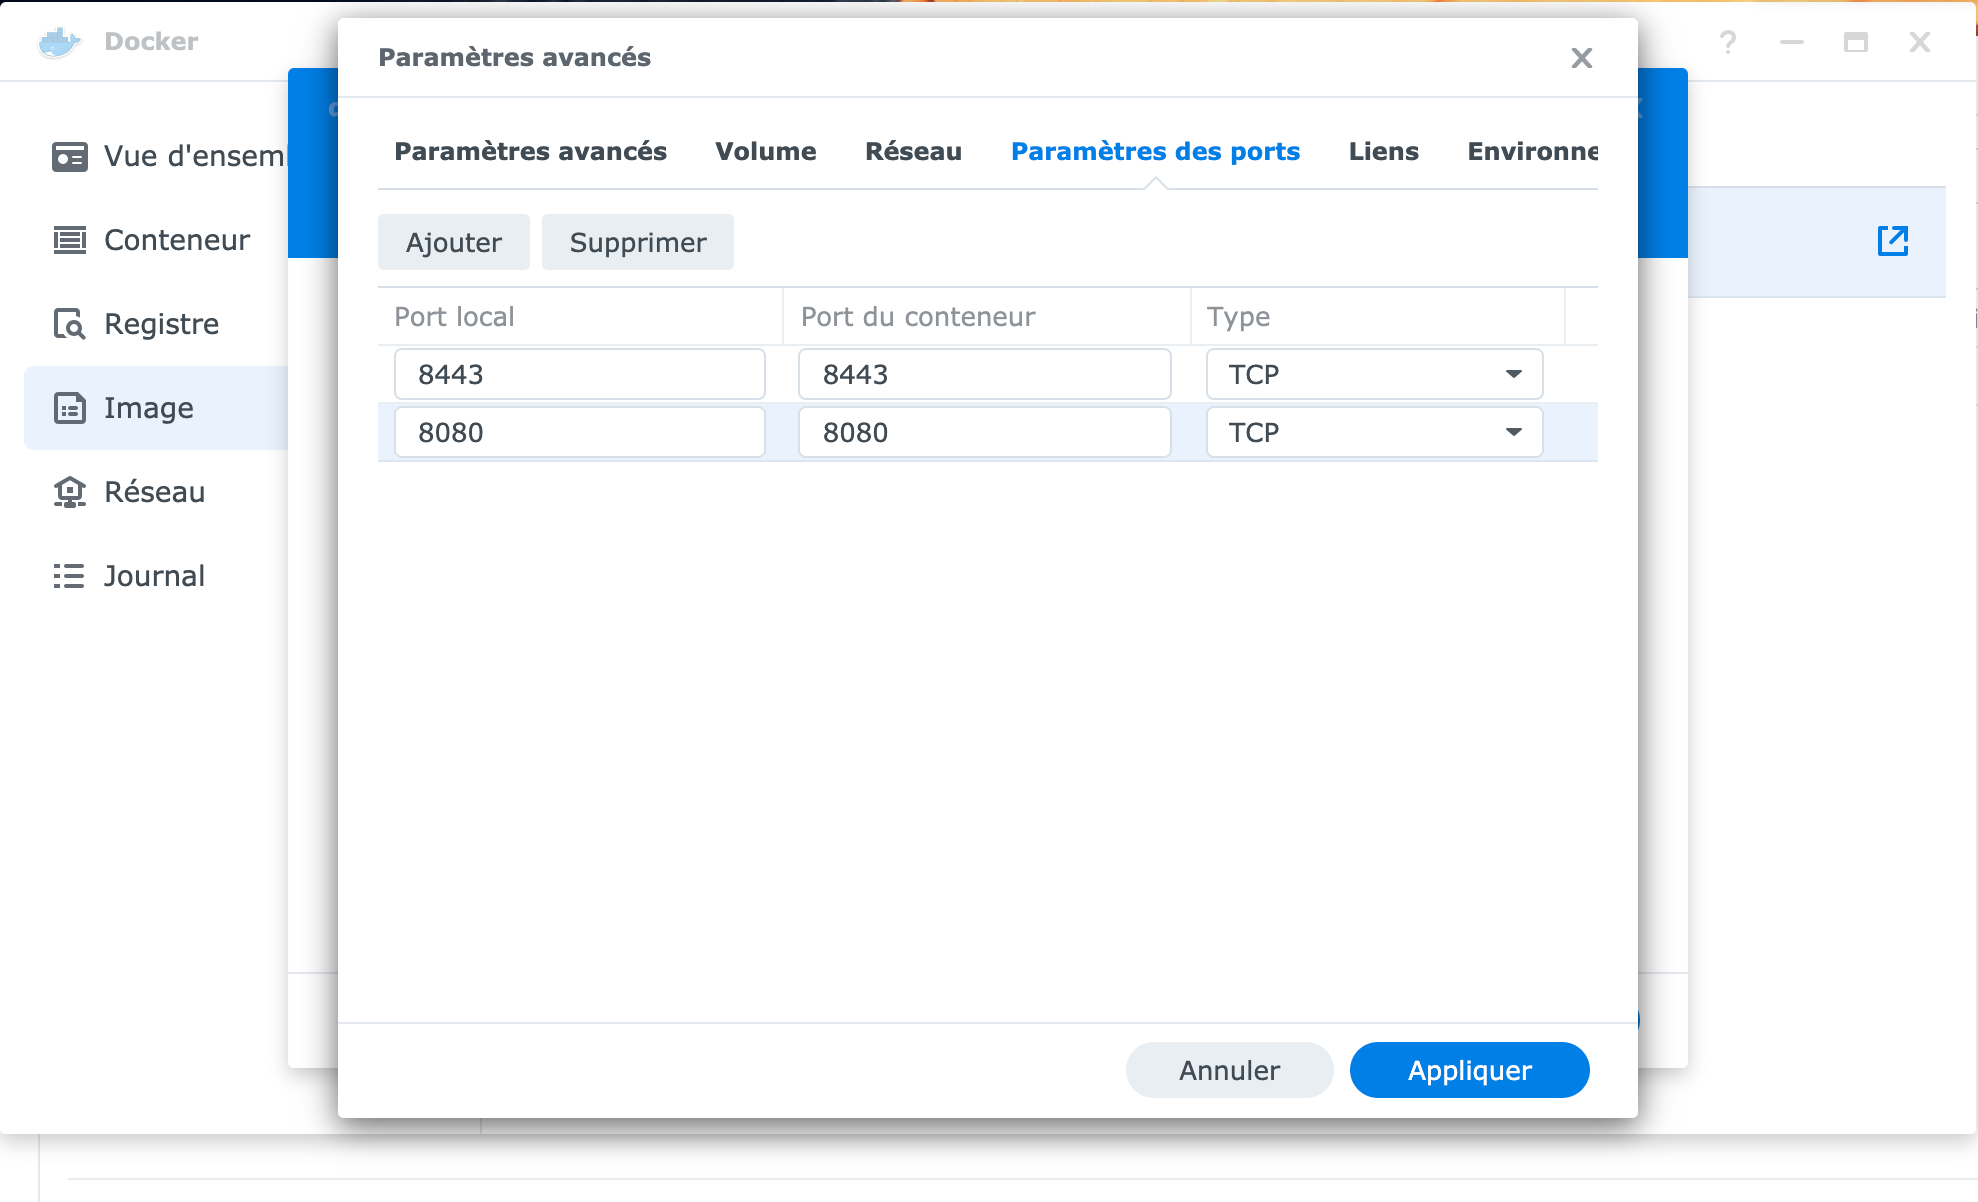
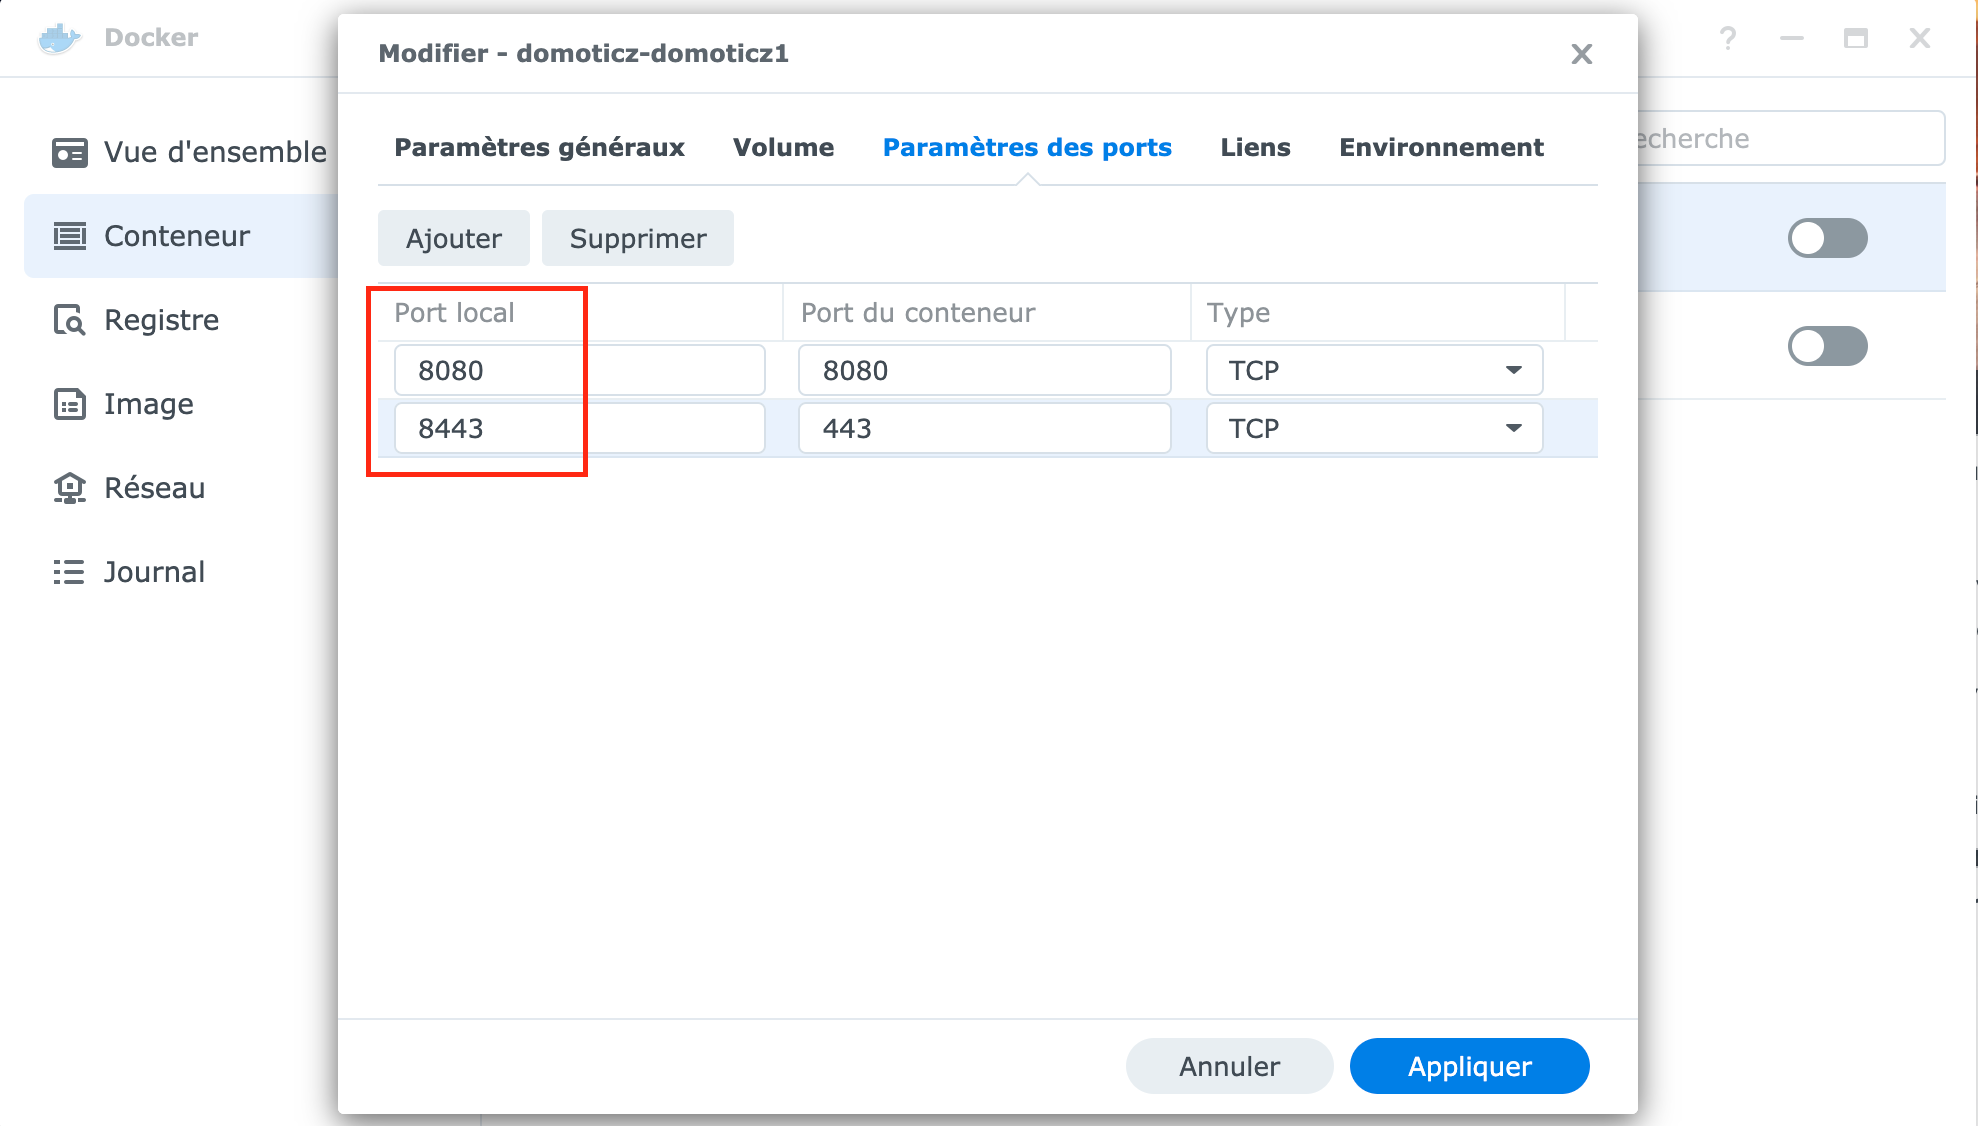
Update versions and Ports part

diff --git a/fr-fr/Info_Installer-Domoticz-NAS-Synology-Docker.md b/fr-fr/Info_Installer-Domoticz-NAS-Synology-Docker.md
@@ -55,11 +55,8 @@ Une fois le dossier créé, il faut indiquer le chemin d'accès : `/opt/domoticz
 ![/opt/domoticz/userdata](Images/FR_Synology_Docker_Install_Param_Volume_3.png)
 
 
-Ensuite, choisir l'onglet Environnement et modifier le port SSL, le port 443 étant déjà utilisé par le NAS, cela va bloquer.
-![Environement](Images/FR_Synology_Docker_Install_Param_Environnement.png)
-
-
-Onglet Paramètres des ports, remplacer auto par les ports choisis:
+Ensuite, choisir l'onglet Ports et modifier les 'Auto' par des ports fixes.
+Le port SSL 443 étant déjà utilisé par le NAS, il faut en choisir un autre :
 ![Ports](Images/FR_Synology_Docker_Install_Ports.png)
 
 
